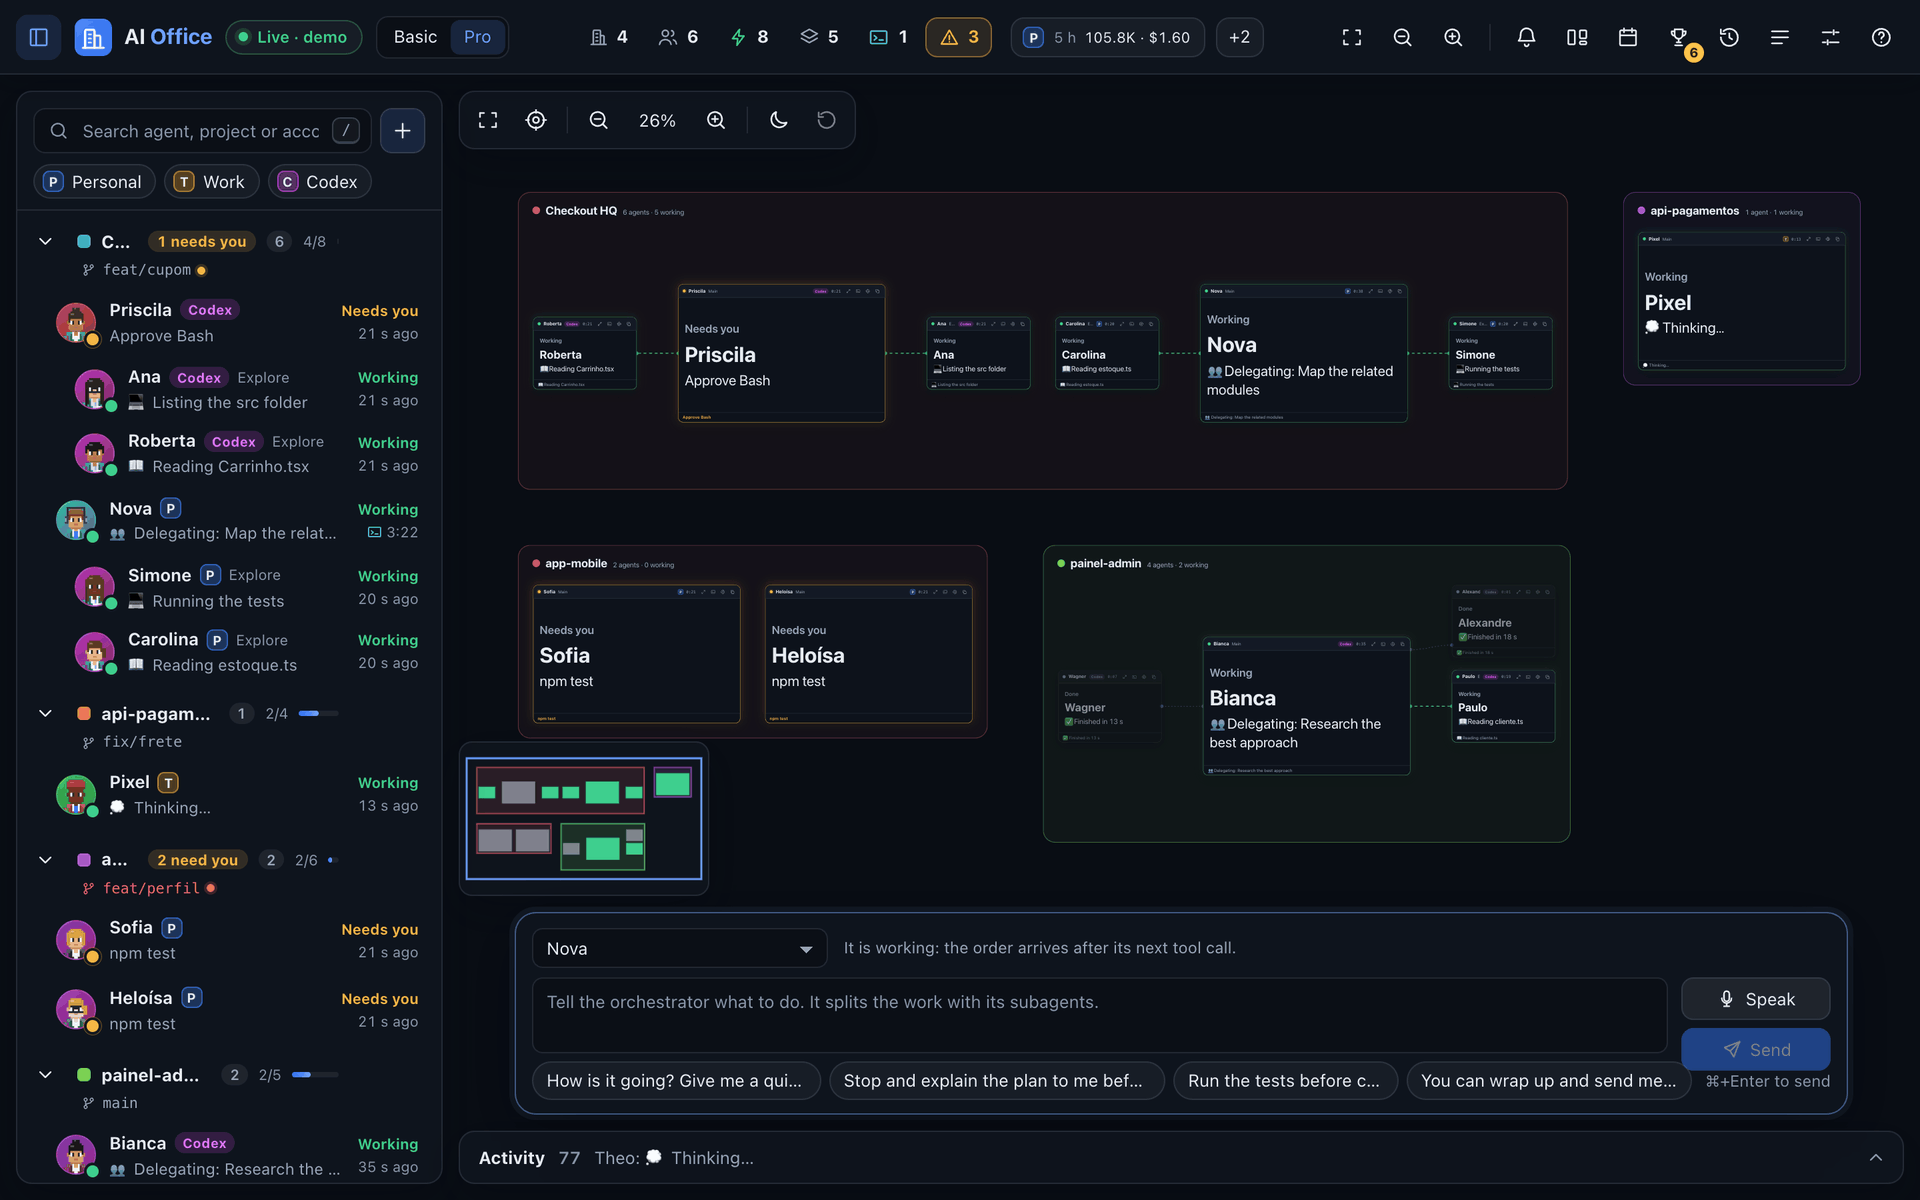
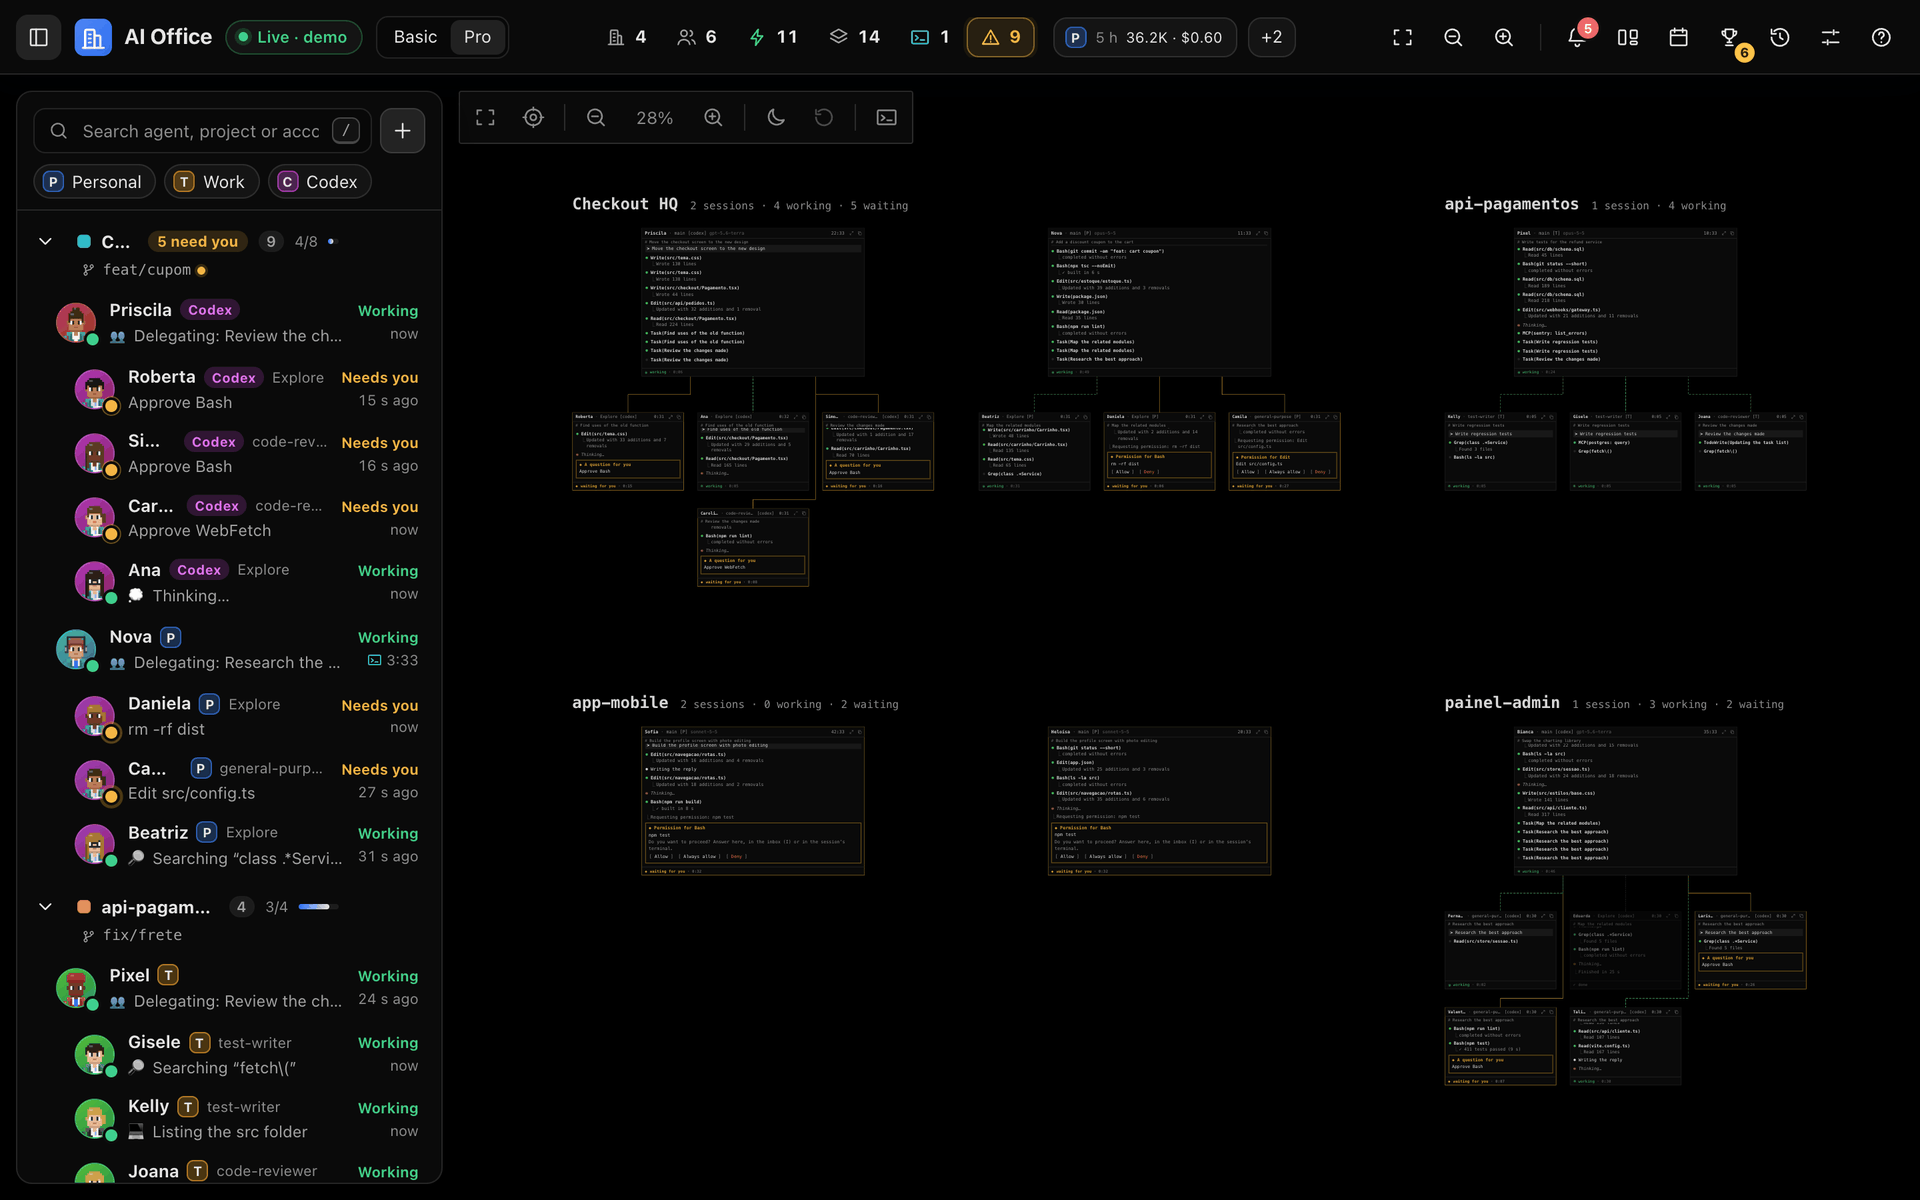
docs: README and screenshots for the raw terminal Pro view and the Best voice model

diff --git a/README.es.md b/README.es.md
@@ -187,26 +187,28 @@ La [guía del plugin](docs/03-plugin.md) detalla cada hook, las vías de entrega
 
 <table>
   <tr>
-    <td width="50%"><img src="docs/assets/readme/es/pro-canvas.png" alt="Vista Pro alejada: un marco por sala, cada orquestador como una terminal grande con las terminales de sus subagentes alrededor, unidas por líneas, y la barra de comandos abajo." /></td>
-    <td width="50%"><img src="docs/assets/readme/es/pro-terminals.png" alt="Vista Pro acercada a un orquestador: su terminal en vivo muestra llamadas a herramientas y resultados, unida a dos terminales de subagentes marcadas Explore." /></td>
+    <td width="50%"><img src="docs/assets/readme/es/pro-canvas.png" alt="Vista Pro alejada, en un lienzo negro: cada proyecto es un nombre simple sobre las terminales de sus orquestadores, con las terminales de los subagentes en filas debajo, unidas por líneas rectas finas." /></td>
+    <td width="50%"><img src="docs/assets/readme/es/pro-terminals.png" alt="Vista Pro acercada a un orquestador: su terminal lista herramientas y resultados, y las terminales de los subagentes debajo muestran cuadros ámbar de permiso con los botones Permitir y Denegar." /></td>
   </tr>
   <tr>
-    <td align="center"><sub>Todas las salas, orquestadores y subagentes en un solo lienzo</sub></td>
-    <td align="center"><sub>Acércate y las terminales pasan a vivo</sub></td>
+    <td align="center"><sub>Todos los proyectos, orquestadores y subagentes en un solo lienzo</sub></td>
+    <td align="center"><sub>Terminales en bruto, con permisos respondidos ahí mismo</sub></td>
   </tr>
 </table>
 
-Cambia **Básica | Pro** en la barra superior (o pulsa `V`) para cambiar la oficina por un lienzo de orquestación. Muestra las mismas sesiones reales de Claude Code, sin llamadas extra a la API: cada sala es un marco, cada sesión principal es una terminal grande y sus subagentes son terminales más pequeñas unidas a ella.
+Cambia **Básica | Pro** en la barra superior (o pulsa `V`) para cambiar la oficina por una pared de terminales en bruto sobre un lienzo negro. Muestra las mismas sesiones reales de Claude Code, sin llamadas extra a la API: cada proyecto es su nombre en texto simple, cada sesión principal es una terminal grande y sus subagentes son terminales más pequeñas en filas justo debajo.
 
 | Quieres | En la Vista Pro | Qué pasa |
 |---|---|---|
-| **Ver quién delega a quién** | Las líneas entre terminales | Trazos en movimiento mientras el subagente trabaja, ámbar cuando te espera, atenuados cuando termina; los subagentes terminados se agrupan en una etiqueta "N terminados" a los 5 minutos |
-| **Leer el trabajo mientras ocurre** | Acércate a un grupo | Las terminales en pantalla muestran la conversación en vivo (pedidos, respuestas, herramientas y resultados); de lejos, cada una es una tarjeta de estado |
-| **Moverte** | Arrastra, desplaza, pellizca, usa el minimapa, `0` para ver todo, `F` para enfocar | La cámara se desliza hasta donde apuntas; arrastra la barra de título para ordenar las terminales, y la disposición se recuerda |
-| **Dar una tarea a un orquestador** | La barra de comandos (`N`), escribiendo o hablando | Tu texto va por el canal de mensajes del plugin, a un orquestador o a toda una sala; la barra dice cuándo llegará y sigue la entrega |
-| **Hablar en vez de escribir** | **Hablar** en la barra de comandos | La voz se convierte en texto en esta computadora y llega a la caja para que la revises; nada se envía solo |
+| **Ver quién delega en quién** | Las líneas que bajan de cada orquestador | Líneas rectas finas, como un organigrama: ámbar cuando un subagente te espera, atenuadas cuando termina; los subagentes terminados se pliegan en un botón `[✓ N subagentes terminados]` después de 5 minutos |
+| **Leer el trabajo mientras ocurre** | Cualquier terminal | Se lee como la CLI: `> pedido`, `⏺ Bash(npm test)` con el resultado bajo `⎿` y errores en rojo, actualizada más o menos una vez por segundo; doble clic o `Enter` la maximiza |
+| **Responder un permiso** | `[ Permitir ]` y `[ Denegar ]` en la terminal | La respuesta sigue el mismo camino que la bandeja de entrada; `[ Permitir siempre ]` aparece cuando Claude Code sugiere una regla y el pedido no es riesgoso |
+| **Revisar un proyecto** | Haz clic en su nombre | Un panel con el orquestador, tiempo de sesión y de turno, modelo, rama y cambios, tokens, costo y subagentes, más un cuadro para una orden escrita o hablada |
+| **Moverte** | Arrastra, desplaza, pellizca, `0` para ver todo, `F` para enfocar | La vista se sigue ajustando a medida que llegan subagentes, hasta que muevas la cámara; arrastra una barra de título para ordenar las terminales, y la disposición se recuerda |
+| **Darle una tarea a un orquestador** | El panel del proyecto, o la barra de comandos opcional (`N`) | Tu texto va por el canal de mensajes del plugin, a un orquestador o a todo el proyecto; el cuadro dice cuándo llegará y sigue la entrega |
+| **Hablar en vez de escribir** | El micrófono en cualquiera de los cuadros | La voz se vuelve texto en esta computadora y cae en el cuadro para que la revises; nada se envía solo |
 
-La voz necesita un modelo de habla, que se descarga una vez cuando eliges **Configuración → Datos e integraciones → Voz → Descargar modelo de voz**: Rápido (44 MB), Equilibrado (80 MB, el predeterminado) o Preciso (252 MB). Después, el audio y el texto nunca salen de tu computadora. Las sesiones de Codex aparecen solo para lectura, y una orden sigue las mismas reglas de entrega que cualquier mensaje: llega a un agente inactivo solo mientras está en sus 10 minutos de espera. La [guía de uso](docs/02-using-the-office.md) cubre cada control y atajo.
+La voz necesita un modelo de habla, descargado una vez cuando eliges **Configuración → Datos e integraciones → Voz → Descargar modelo de voz**: Rápido (44 MB), Equilibrado (80 MB), Preciso (252 MB) o Máxima (1,6 GB, el predeterminado, Whisper large-v3-turbo). Máxima corre en la tarjeta gráfica con WebGPU; sin ella, la página usa Preciso y lo avisa. En una prueba con 120 palabras de voz sintetizada en portugués, inglés y español, Máxima no cometió errores de palabras, Preciso cometió 9 y Equilibrado 14. La primera grabación después de abrir la página espera a que cargue el modelo, lo que puede tardar minutos en una computadora ocupada o con poca memoria. Después de la descarga, el audio y el texto nunca salen de tu computadora. Las sesiones de Codex aparecen solo para lectura, y una orden sigue las mismas reglas de entrega que cualquier mensaje: llega a un agente inactivo solo mientras está dentro de sus 10 minutos de espera. La [guía de uso](docs/02-using-the-office.md) cubre cada control y atajo.
 
 <a id="team"></a>
 
@@ -425,7 +427,7 @@ El texto que viene de tus propias sesiones (prompts, títulos de tareas, comando
 | Verificación | Cómo |
 |---|---|
 | **Tipos** | TypeScript estricto en los cuatro paquetes: `npm run typecheck` |
-| **Comportamiento** | Más de 3500 pruebas con Vitest, incluida una suite de extremo a extremo que levanta el servidor real: `npm test` |
+| **Comportamiento** | Más de 3600 pruebas con Vitest, incluida una suite de extremo a extremo que levanta el servidor real: `npm test` |
 | **Estilo** | ESLint y Prettier: `npm run lint` |
 | **Build** | Bundle web y bundle del servidor: `npm run build` |
 | **Documentación** | Todo enlace local, ancla y traducción del README verificados: `npm run docs:check` |
@@ -438,7 +440,7 @@ Frame rate medido en la app real con sesiones en vivo (4 agentes en 4 salas), 14
 | 2D | 427 fps | 385 fps |
 | 3D, calidad máxima | 83 fps | 21 fps |
 
-La Vista Pro se mantiene en 60 fps (cuadro mediano de 16,7 ms, vsync activado) con 36 a 48 terminales, recorriendo de lejos, en un grupo y en una zona densa. Tu pantalla limita lo que ves (normalmente 60 fps). La escena nocturna en 3D es la más costosa: su efecto de brillo con anti-aliasing a relación de píxeles 2× explica la mayor parte del costo. La [guía de validación](docs/06-validation.md) registra la máquina, el método y los límites conocidos, como que las cifras de costo son estimaciones y que Windows no es compatible.
+La Vista Pro se mantiene en 60 fps (cuadro mediano de 16,7 ms, vsync activado) con 12 a 23 terminales, de lejos, en un grupo y en una zona densa. Tu pantalla limita lo que ves (normalmente 60 fps). La escena nocturna en 3D es la más costosa: su efecto de brillo con anti-aliasing a relación de píxeles 2× explica la mayor parte del costo. La [guía de validación](docs/06-validation.md) registra la máquina, el método y los límites conocidos, como que las cifras de costo son estimaciones y que Windows no es compatible.
 
 <a id="repository"></a>
 

diff --git a/README.md b/README.md
@@ -187,26 +187,28 @@ The [plugin guide](docs/03-plugin.md) details each hook, the delivery paths and 
 
 <table>
   <tr>
-    <td width="50%"><img src="docs/assets/readme/en/pro-canvas.png" alt="Pro view zoomed out: one frame per room, each orchestrator as a large terminal with its subagents' terminals around it, linked by lines, and the command bar at the bottom." /></td>
-    <td width="50%"><img src="docs/assets/readme/en/pro-terminals.png" alt="Pro view zoomed in on one orchestrator: its live terminal shows tool calls and results, linked to two subagent terminals labeled Explore." /></td>
+    <td width="50%"><img src="docs/assets/readme/en/pro-canvas.png" alt="Pro view zoomed out on a black canvas: each project is a plain name above its orchestrator terminals, with subagent terminals in rows below them, joined by thin square lines." /></td>
+    <td width="50%"><img src="docs/assets/readme/en/pro-terminals.png" alt="Pro view zoomed in on one orchestrator: its terminal lists tool calls and results, and the subagent terminals below it show amber permission boxes with Allow and Deny buttons." /></td>
   </tr>
   <tr>
-    <td align="center"><sub>Every room, orchestrator and subagent on one canvas</sub></td>
-    <td align="center"><sub>Zoom in and the terminals go live</sub></td>
+    <td align="center"><sub>Every project, orchestrator and subagent on one canvas</sub></td>
+    <td align="center"><sub>Raw terminals, with permissions answered in place</sub></td>
   </tr>
 </table>
 
-Switch **Basic | Pro** in the top bar (or press `V`) to trade the office for an orchestration canvas. It shows the same real Claude Code sessions, with no extra API calls: each room is a frame, each main session is a large terminal and its subagents are smaller terminals linked to it.
+Switch **Basic | Pro** in the top bar (or press `V`) to trade the office for a raw terminal wall on a black canvas. It shows the same real Claude Code sessions, with no extra API calls: each project is its name in plain text, each main session is a large terminal and its subagents are smaller terminals in rows right below it.
 
 | You want to | In the Pro view | What happens |
 |---|---|---|
-| **See who delegates to whom** | The lines between terminals | Moving dashes while a subagent works, amber when it waits on you, dimmed when it is done; finished subagents fold into an "N finished" pill after 5 minutes |
-| **Read the work as it happens** | Zoom in on a cluster | Terminals on screen show the live conversation (prompts, replies, tool calls and results); zoomed out, each one is a status card |
-| **Move around** | Drag, scroll, pinch, the minimap, `0` to fit, `F` to focus | The camera eases to where you point; drag a title bar to arrange terminals, and the layout is remembered |
-| **Give an orchestrator a task** | The command bar (`N`), typed or spoken | Your text goes through the plugin's message channel, to one orchestrator or a whole room; the bar says when it will arrive and tracks delivery |
-| **Talk instead of typing** | **Speak** in the command bar | Speech becomes text on this computer and lands in the box for you to review; nothing is sent on its own |
+| **See who delegates to whom** | The lines going down from each orchestrator | Thin square lines, like an org chart: amber when a subagent waits on you, dimmed when it is done; finished subagents fold into a `[✓ N finished subagents]` button after 5 minutes |
+| **Read the work as it happens** | Any terminal | It reads like the CLI: `> prompt`, `⏺ Bash(npm test)` with the result under `⎿`, and errors in red, updated about once a second; double click or `Enter` maximizes it |
+| **Answer a permission** | `[ Allow ]` and `[ Deny ]` in the terminal | The answer takes the same path as the inbox; `[ Always allow ]` appears when Claude Code suggests a rule and the request is not risky |
+| **Check on a project** | Click its name | A panel with the orchestrator, session and turn time, model, branch and changes, tokens, cost and subagents, plus a box for a typed or spoken order |
+| **Move around** | Drag, scroll, pinch, `0` to fit, `F` to focus | The view keeps fitting as subagents arrive, until you move the camera; drag a title bar to arrange terminals, and the layout is remembered |
+| **Give an orchestrator a task** | The project panel, or the optional command bar (`N`) | Your text goes through the plugin's message channel, to one orchestrator or a whole project; the box says when it will arrive and tracks delivery |
+| **Talk instead of typing** | The microphone in either box | Speech becomes text on this computer and lands in the box for you to review; nothing is sent on its own |
 
-Voice needs a speech model, downloaded once when you choose **Settings → Data and integrations → Voice → Download voice model**: Fast (44 MB), Balanced (80 MB, the default) or Accurate (252 MB). After that, the audio and the text never leave your computer. Codex sessions appear read-only, and an order follows the same delivery rules as any message: it reaches an idle agent only while it is within its 10-minute stand-by. The [user guide](docs/02-using-the-office.md) covers every control and shortcut.
+Voice needs a speech model, downloaded once when you choose **Settings → Data and integrations → Voice → Download voice model**: Fast (44 MB), Balanced (80 MB), Accurate (252 MB) or Best (1.6 GB, the default, Whisper large-v3-turbo). Best runs on the graphics card through WebGPU; without it, the page uses Accurate and says so. In a test with 120 words of synthesized speech in Portuguese, English and Spanish, Best made no word errors, Accurate made 9 and Balanced 14. The first recording after opening the page waits for the model to load, which can take minutes on a busy or low-memory computer. After the download, the audio and the text never leave your computer. Codex sessions appear read-only, and an order follows the same delivery rules as any message: it reaches an idle agent only while it is within its 10-minute stand-by. The [user guide](docs/02-using-the-office.md) covers every control and shortcut.
 
 <a id="team"></a>
 
@@ -425,7 +427,7 @@ Text that comes from your own sessions (prompts, task titles, commands, file nam
 | Check | How |
 |---|---|
 | **Types** | TypeScript strict across the four packages: `npm run typecheck` |
-| **Behavior** | 3500+ Vitest tests, including an end-to-end suite that boots the real server: `npm test` |
+| **Behavior** | 3600+ Vitest tests, including an end-to-end suite that boots the real server: `npm test` |
 | **Style** | ESLint and Prettier: `npm run lint` |
 | **Build** | Web bundle and server bundle: `npm run build` |
 | **Documentation** | Every local link, anchor and README translation checked: `npm run docs:check` |
@@ -438,7 +440,7 @@ Frame rate measured in the real app with live sessions (4 agents in 4 rooms), 14
 | 2D | 427 fps | 385 fps |
 | 3D, full quality | 83 fps | 21 fps |
 
-The Pro view holds 60 fps (median frame 16.7 ms, vsync on) with 36–48 terminals, panning zoomed out, on one cluster and in a dense area. Your screen caps what you see (usually 60 fps). The 3D night scene is the expensive one: its glow pass with anti-aliasing at a 2× pixel ratio accounts for most of the cost. The [validation guide](docs/06-validation.md) records the machine, the method and the known limits, such as cost figures being estimates and Windows not being supported.
+The Pro view holds 60 fps (median frame 16.7 ms, vsync on) with 12–23 terminals, zoomed out, on one cluster and in a dense area. Your screen caps what you see (usually 60 fps). The 3D night scene is the expensive one: its glow pass with anti-aliasing at a 2× pixel ratio accounts for most of the cost. The [validation guide](docs/06-validation.md) records the machine, the method and the known limits, such as cost figures being estimates and Windows not being supported.
 
 <a id="repository"></a>
 
